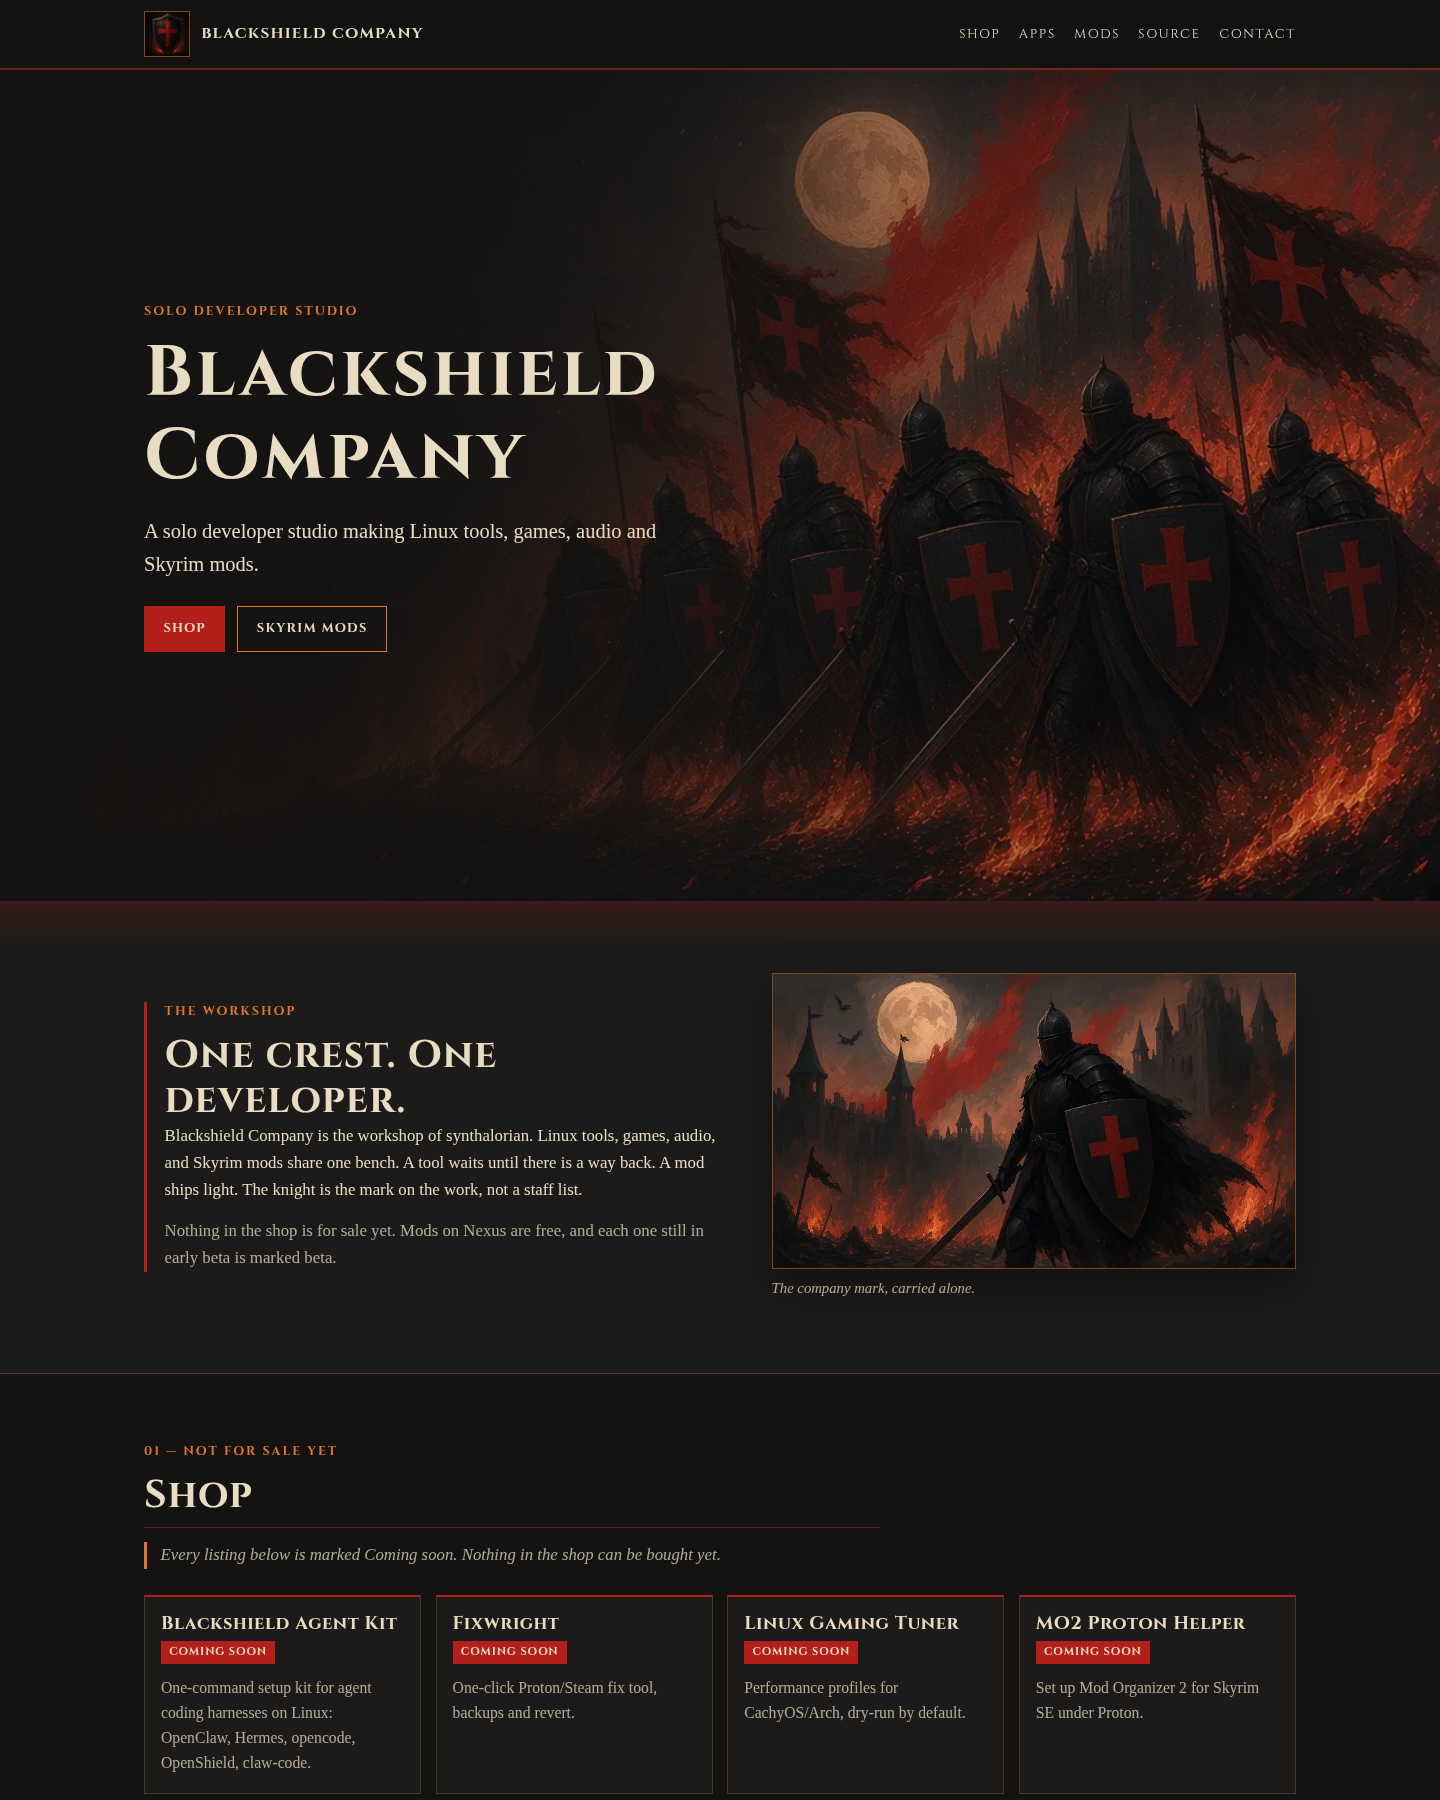
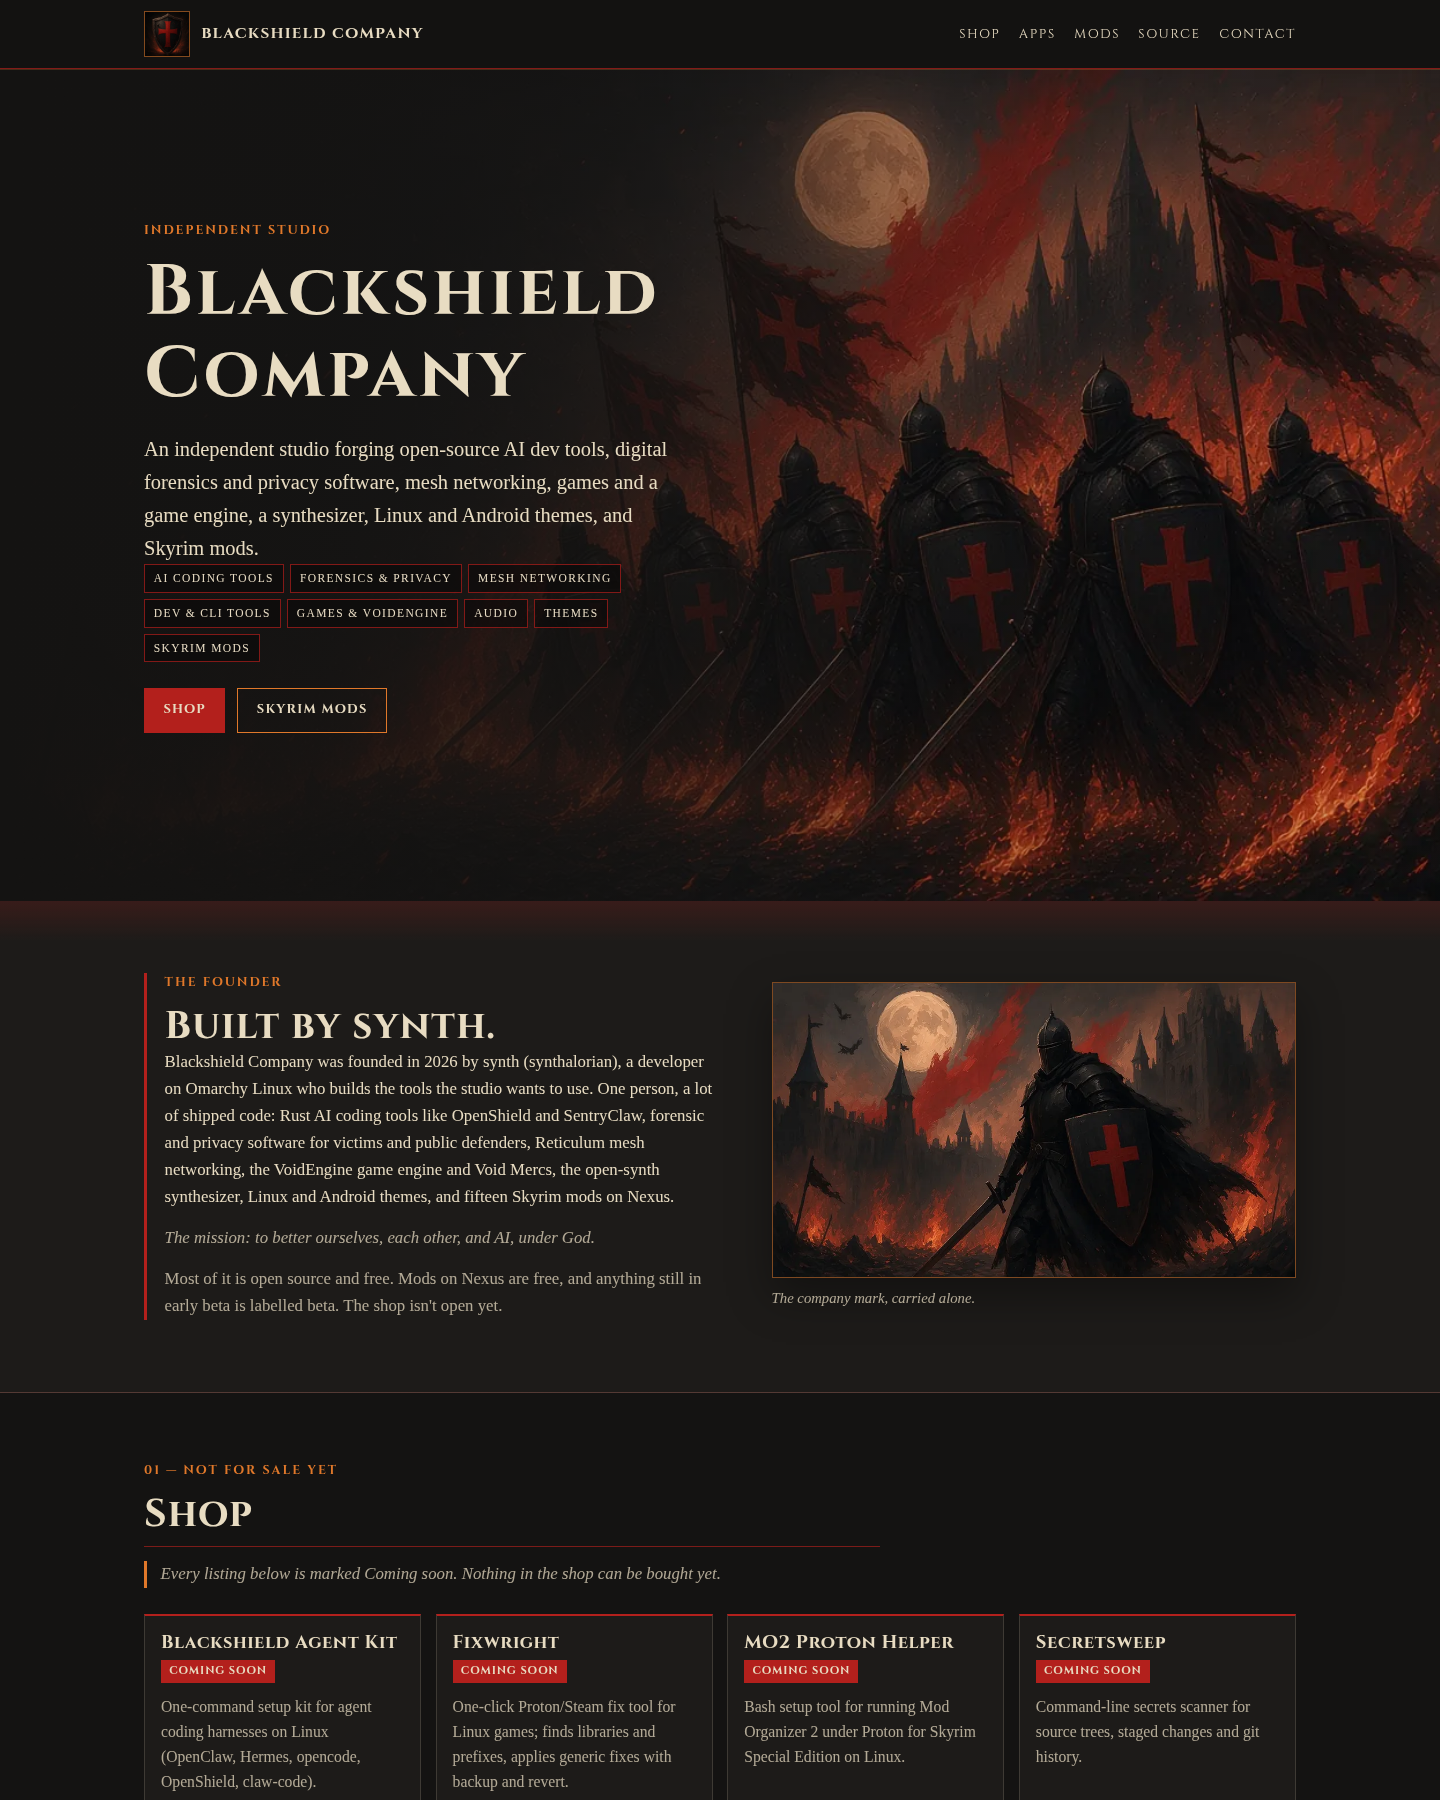
Update shop, mods and open source for Blackshield-Company org

diff --git a/style.css b/style.css
@@ -684,6 +684,17 @@ a.card-source {
     gap: 0.2rem;
   }
 
+  .source-group > h3 {
+    letter-spacing: 0.06em;
+  }
+
+  .card h3,
+  .source-group > h3,
+  .source-foot,
+  .source-intro {
+    overflow-wrap: anywhere;
+  }
+
   .btn {
     width: 100%;
     text-align: center;
@@ -698,5 +709,3 @@ a.card-source {
 
 .hero-tags{list-style:none;display:flex;flex-wrap:wrap;gap:.4rem;margin:0 0 1.4rem;padding:0;max-width:34rem}
 .hero-tags li{font-size:.72rem;letter-spacing:.12em;text-transform:uppercase;color:#e8dcc4;border:1px solid rgba(179,32,28,.7);background:rgba(10,8,8,.55);padding:.25rem .55rem}
-
-.mission{font-size:1.15rem;color:#e8dcc4;border-left:2px solid #b3201c;padding-left:.8rem;margin:1rem 0}
